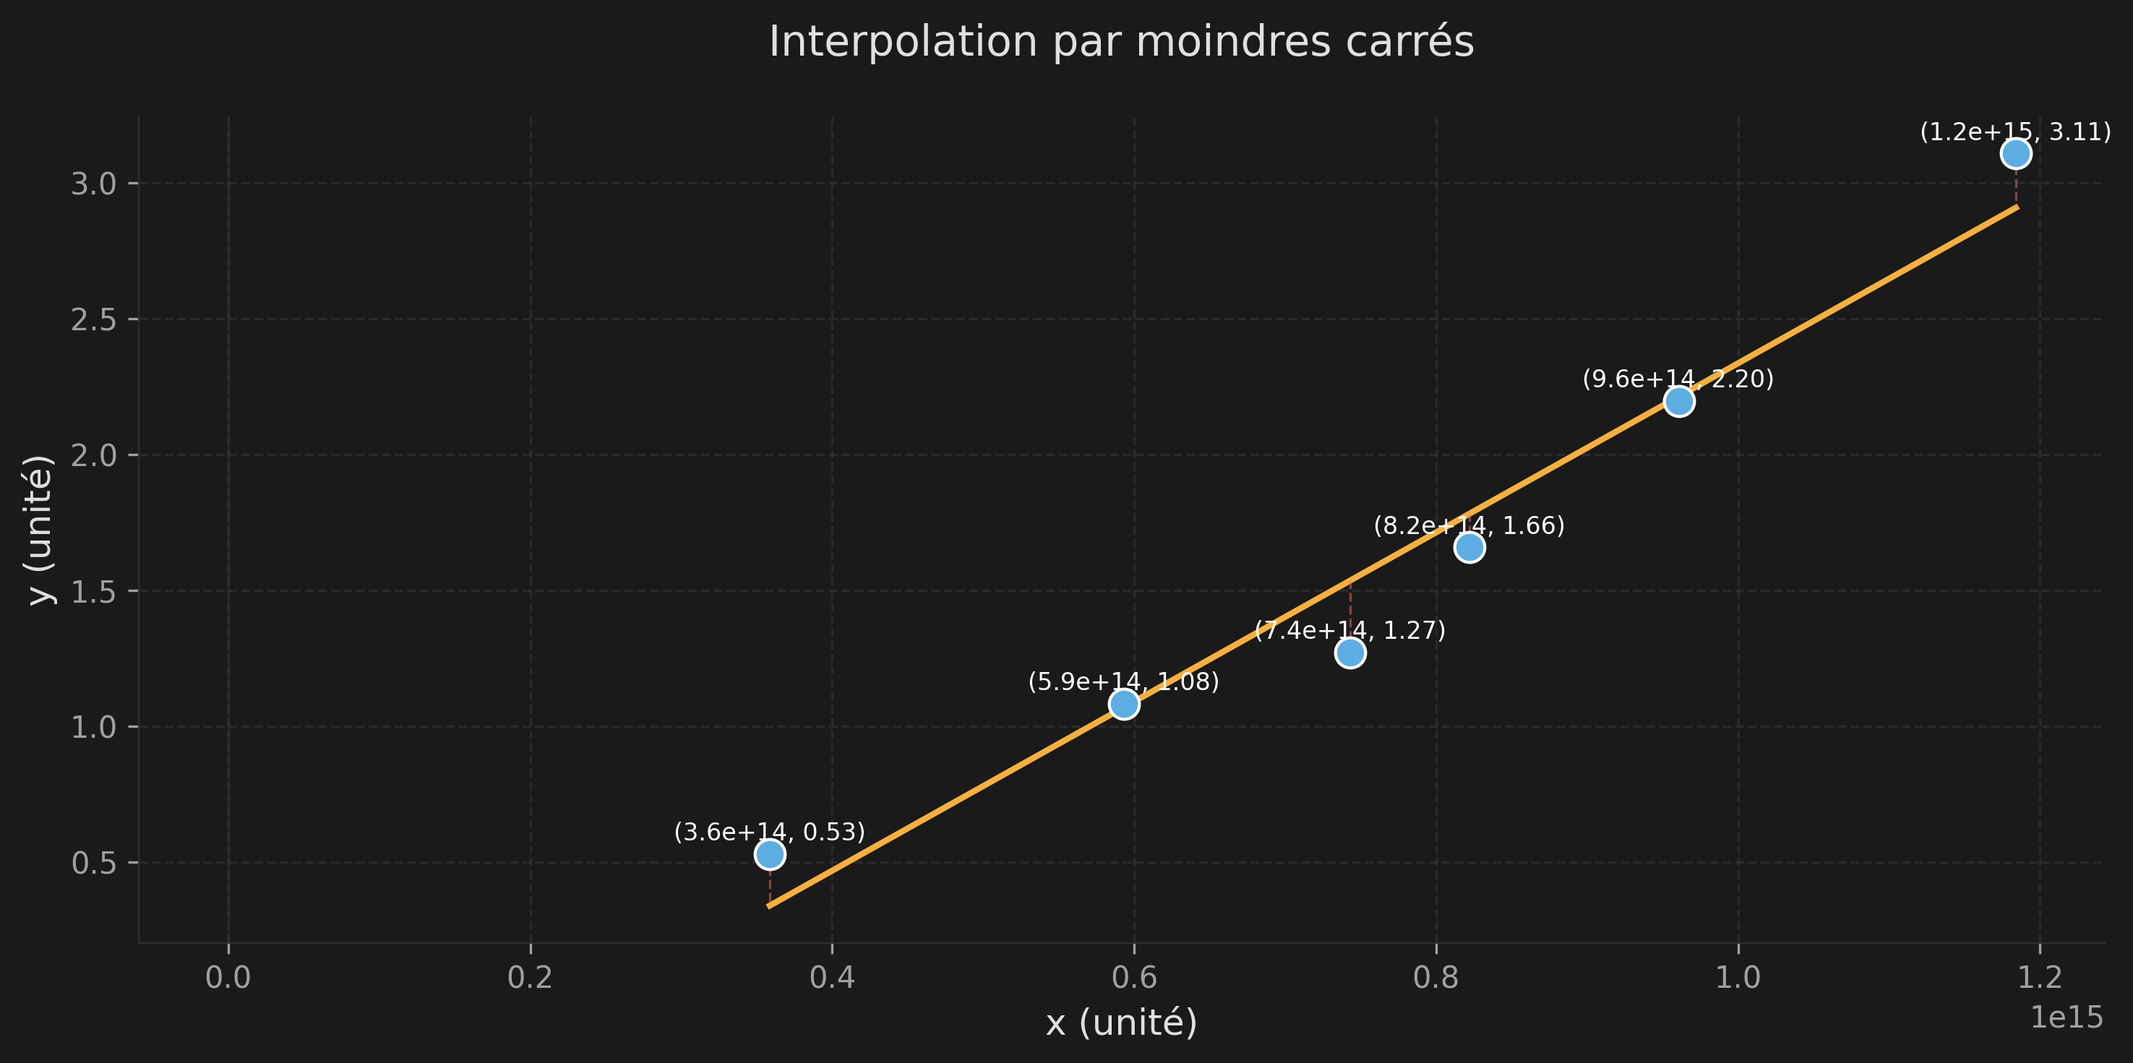
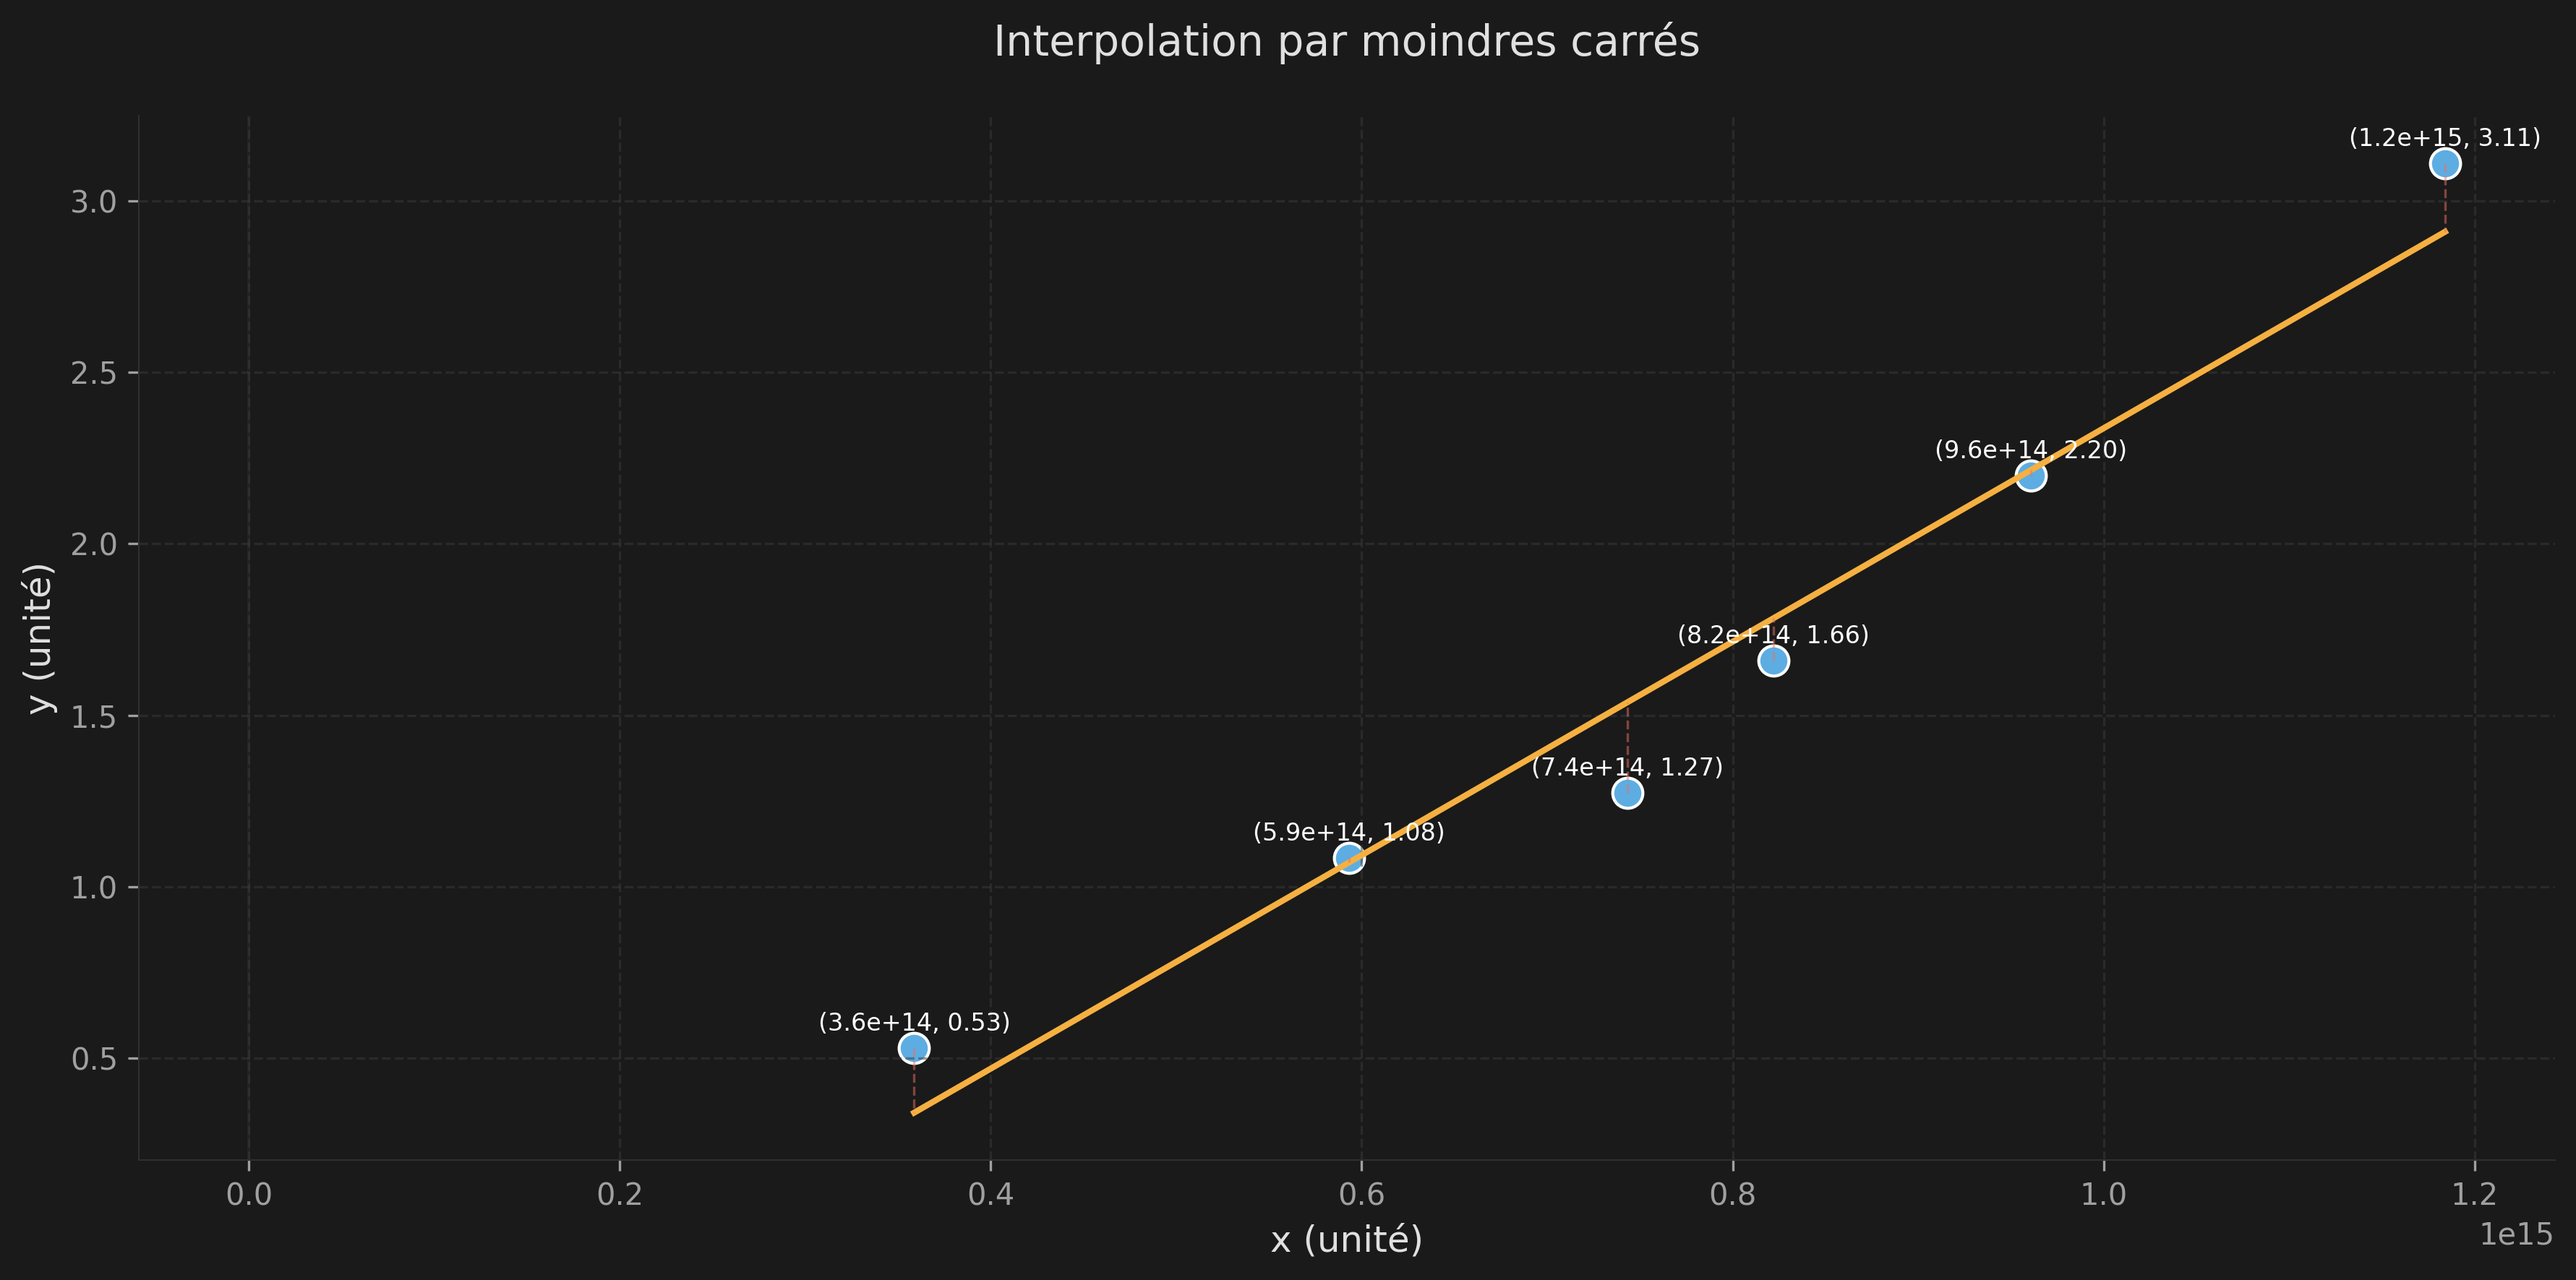
Improved TD3 exo 1+ generating the millikan photoelectric graph in dark mode.

diff --git a/exercices/TD3/exo_1/exo+1.py b/exercices/TD3/exo_1/exo+1.py
@@ -1,9 +1,8 @@
 import matplotlib.pyplot as plt
-\
 import numpy as np
 import os
 
-# Configuration pour le mode sombre (style similaire à votre graphique)
+# Configuration pour le mode sombre
 plt.rcParams.update({
     'figure.facecolor': '#1a1a1a',
     'axes.facecolor': '#1a1a1a',
@@ -18,89 +17,100 @@ plt.rcParams.update({
     'axes.labelsize': 12,
     'xtick.labelsize': 10,
     'ytick.labelsize': 10,
-    'figure.figsize': (10, 5),
+    'figure.figsize': (12, 9),
     'figure.dpi': 300
 })
 
 # Créer le dossier s'il n'existe pas
 os.makedirs('Images', exist_ok=True)
 
-# Données fournies
+# Données de Millikan (fréquence en Hz, tension en V)
 x = np.array([3.5874e+14, 5.931e+14, 7.4307e+14, 8.2193e+14, 9.6074e+14, 1.184e+15])
 y = np.array([0.5309, 1.0842, 1.2734, 1.6598, 2.19856, 3.10891])
-
-# Calcul des moindres carrés
 N = len(x)
+
+# --- Calcul des moindres carrés ---
 Ex = np.sum(x)/N
 Ey = np.sum(y)/N
 Exx = np.sum(x*x)/N
 Exy = np.sum(x*y)/N
-
 m = (Exy - Ex*Ey) / (Exx - Ex**2)
 c = (Exx*Ey - Ex*Exy) / (Exx - Ex**2)
 
-# Calcul de la droite de régression
+# --- Calcul des incertitudes ---
+y_fit = m*x + c
+residus = y - y_fit
+sigma_y = np.std(residus, ddof=2)  # Écart-type des résidus
+sigma_m = sigma_y / np.sqrt(N * (Exx - Ex**2))
+sigma_c = sigma_y * np.sqrt(Exx / (N * (Exx - Ex**2)))
+
+# --- Calcul de h et son incertitude ---
+e = 1.602e-19  # Charge de l'électron (C)
+h = m * e
+sigma_h = sigma_m * e
+h_known = 6.62607015e-34  # Valeur connue de h (J·s)
+
+# --- Droite de régression ---
 x_line = np.array([min(x), max(x)])
 y_line = m*x_line + c
 
-# Création du graphique
+# --- Création du graphique ---
 fig, ax = plt.subplots()
+ax.scatter(x/1e14, y, color='#5DADE2', s=100, edgecolor='white', zorder=1, label='Données expérimentales')
+ax.plot(x_line/1e14, y_line, color='#F5B041', linewidth=2,
+        label=f'Ajustement : $V = ({m:.2e} \\pm {sigma_m:.1e})\\nu + ({c:.2f} \\pm {sigma_c:.2f})$')
 
-# Tracer les points
-ax.scatter(x, y, color='#5DADE2', s=100, edgecolor='white', zorder=3,
-           label='Données mesurées')
-
-# Tracer la ligne de régression
-ax.plot(x_line, y_line, color='#F5B041', linewidth=2,
-        label=f'Régression linéaire: y = {m:.2e}x + {c:.2e}')
-
-# Tracer les lignes verticales (distances)
+# --- Lignes verticales (résidus) ---
 for xi, yi in zip(x, y):
-    ax.plot([xi, xi], [yi, m*xi + c], color='#EC7063', linestyle='--',
-            alpha=0.5, linewidth=0.8)
+    ax.plot([xi/1e14, xi/1e14], [yi, m*xi + c], color='#EC7063', linestyle='--', alpha=0.5, linewidth=0.8)
 
-# Personnalisation
-ax.set_title('Interpolation par moindres carrés', pad=20)
-ax.set_xlabel('x (unité)')
-ax.set_ylabel('y (unité)')
+# --- Personnalisation ---
+ax.set_title('Détermination de la constante de Planck ($h$) par l\'effet photoélectrique (Millikan, 1923)', pad=20)
+ax.set_xlabel('Fréquence ($\\nu$, en $10^{14}$ Hz)')
+ax.set_ylabel('Tension d\'arrêt ($V$, en V)')
 ax.grid(axis='both', linestyle='--', alpha=0.5)
-
-# Améliorations visuelles (style similaire à votre graphique)
 ax.spines['top'].set_visible(False)
 ax.spines['right'].set_visible(False)
 ax.spines['left'].set_linewidth(0.5)
 ax.spines['bottom'].set_linewidth(0.5)
+ax.legend(loc='upper left', fontsize=10)
 
-# Fond alterné
-for i in range(len(x)):
-    if i % 2 == 0:
-        ax.axvspan(i-0.5, i+0.5, color='#2a2a2a', alpha=0.3)
-
-# Légende
-# ax.legend(bbox_to_anchor=(1.05, 1), loc='upper left')
-
-# Annotations des points
-for i, (xi, yi) in enumerate(zip(x, y)):
-    ax.text(xi, yi+0.05, f'({xi:.1e}, {yi:.2f})',
-            ha='center', color='white', fontsize=8)
+# --- Annotations des points ---
+for xi, yi in zip(x, y):
+    ax.text(xi/1e14, yi+0.05, f'({xi/1e14:.2f}, {yi:.2f})', ha='center', color='white', fontsize=8)
 
 plt.tight_layout()
 
-# Sauvegarde
+# --- Sauvegarde ---
 script_dir = os.path.dirname(os.path.abspath(__file__))
-image_path = os.path.join(script_dir, 'Images', 'least_squares_dark.png')
-plt.savefig(image_path, bbox_inches='tight')
+image_path = os.path.join(script_dir, 'Images', 'millikan_photoelectric_dark.png')
+plt.savefig(image_path, bbox_inches='tight', dpi=300)
 plt.close()
 
-print(f"Graphique enregistré à : {image_path}")
-print(f"Equation de la droite: y = {m:.2e}x + {c:.2e}")
-print(f"Coefficient de corrélation: {np.corrcoef(x, y)[0,1]:.4f}")
+# --- Affichage des résultats ---
+print("\n" + "="*60)
+print("RÉSULTATS DE L'AJUSTEMENT LINÉAIRE (EFFET PHOTOÉLECTRIQUE)".center(60))
+print("="*60)
+print(f"\nÉquation de la droite d'ajustement :")
+print(f"  V(ν) = ({m:.2e} ± {sigma_m:.1e}) ν + ({c:.2f} ± {sigma_c:.2f})")
+print(f"\nConstante de Planck calculée :")
+print(f"  h = ({h:.3e} ± {sigma_h:.1e}) J·s")
+print(f"  Écart relatif à la valeur connue : {abs(h - h_known)/h_known:.2%}")
+print(f"\nValeur connue de h : {h_known:.3e} J·s")
+print(f"\nCoefficient de corrélation (r) : {np.corrcoef(x, y)[0,1]:.4f}")
+print(f"Écart-type des résidus (σ_y) : {sigma_y:.4f} V")
+print(f"Nombre de points (N) : {N}")
 
-# Affichage des calculs intermédiaires
-print("\nCalculs intermédiaires:")
-print(f"Ex = {Ex:.2e}")
-print(f"Ey = {Ey:.2f}")
-print(f"Exx = {Exx:.2e}")
-print(f"Exy = {Exy:.2e}")
-print(f"m = (Exy - Ex*Ey)/(Exx - Ex²) = {m:.2e}")
-print(f"c = (Exx*Ey - Ex*Exy)/(Exx - Ex²) = {c:.2e}")
+print("\n" + "-"*60)
+print("DÉTAILS DES CALCULS".center(60))
+print("-"*60)
+print(f"Moyenne des fréquences (Ex) : {Ex:.2e} Hz")
+print(f"Moyenne des tensions (Ey) : {Ey:.2f} V")
+print(f"Moyenne des carrés des fréquences (Exx) : {Exx:.2e} Hz²")
+print(f"Moyenne des produits (Exy) : {Exy:.2e} Hz·V")
+print(f"Pente (m) : {m:.2e} V/Hz ± {sigma_m:.1e}")
+print(f"Ordonnée à l'origine (c) : {c:.2f} V ± {sigma_c:.2f}")
+print(f"Fonction de travail estimée (ϕ = -e·c) : {abs(c)*e:.2e} J")
+print("="*60)
+print(f"\nGraphique enregistré : {image_path}")
+print("="*60)
